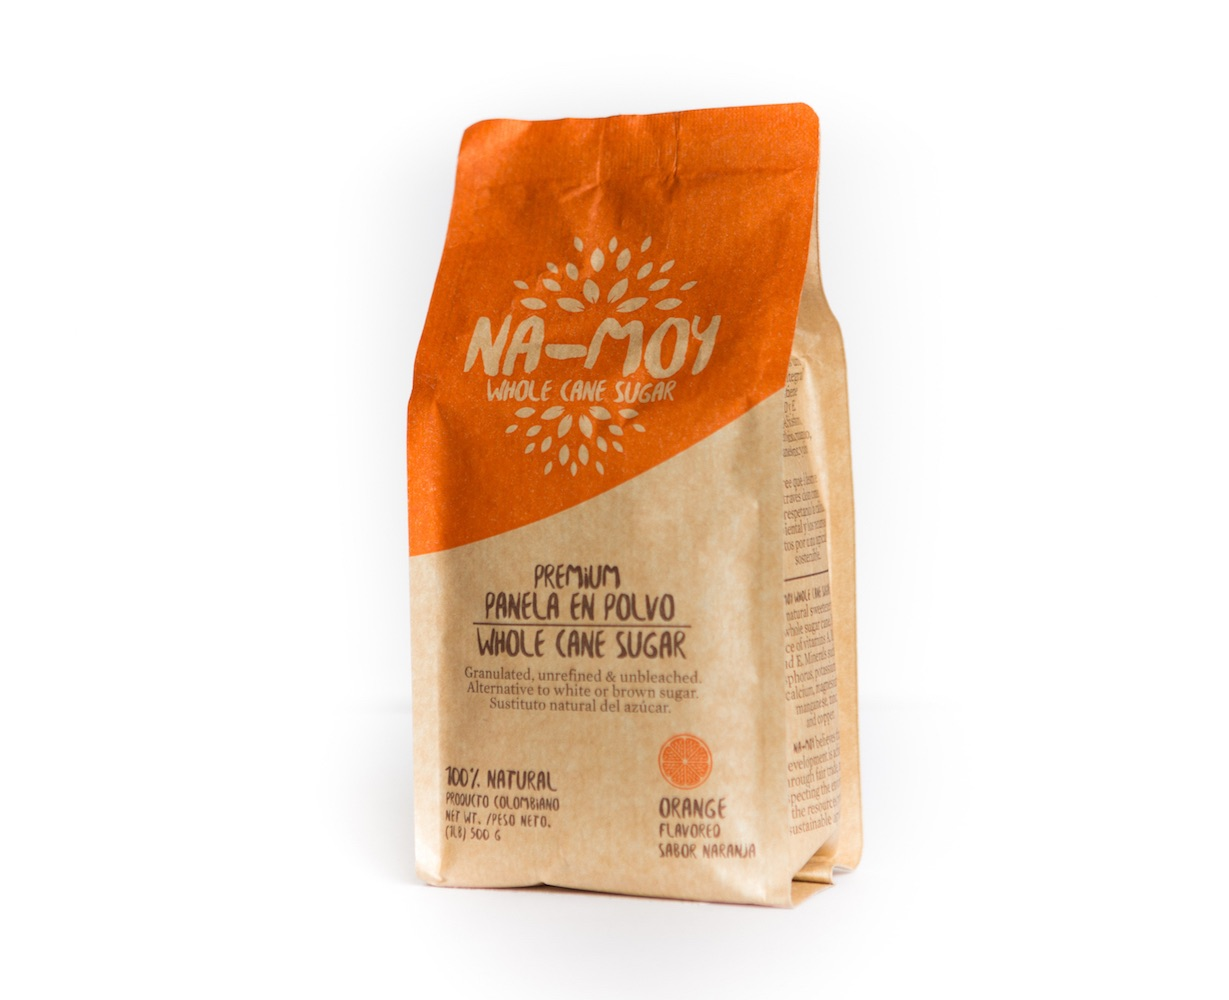
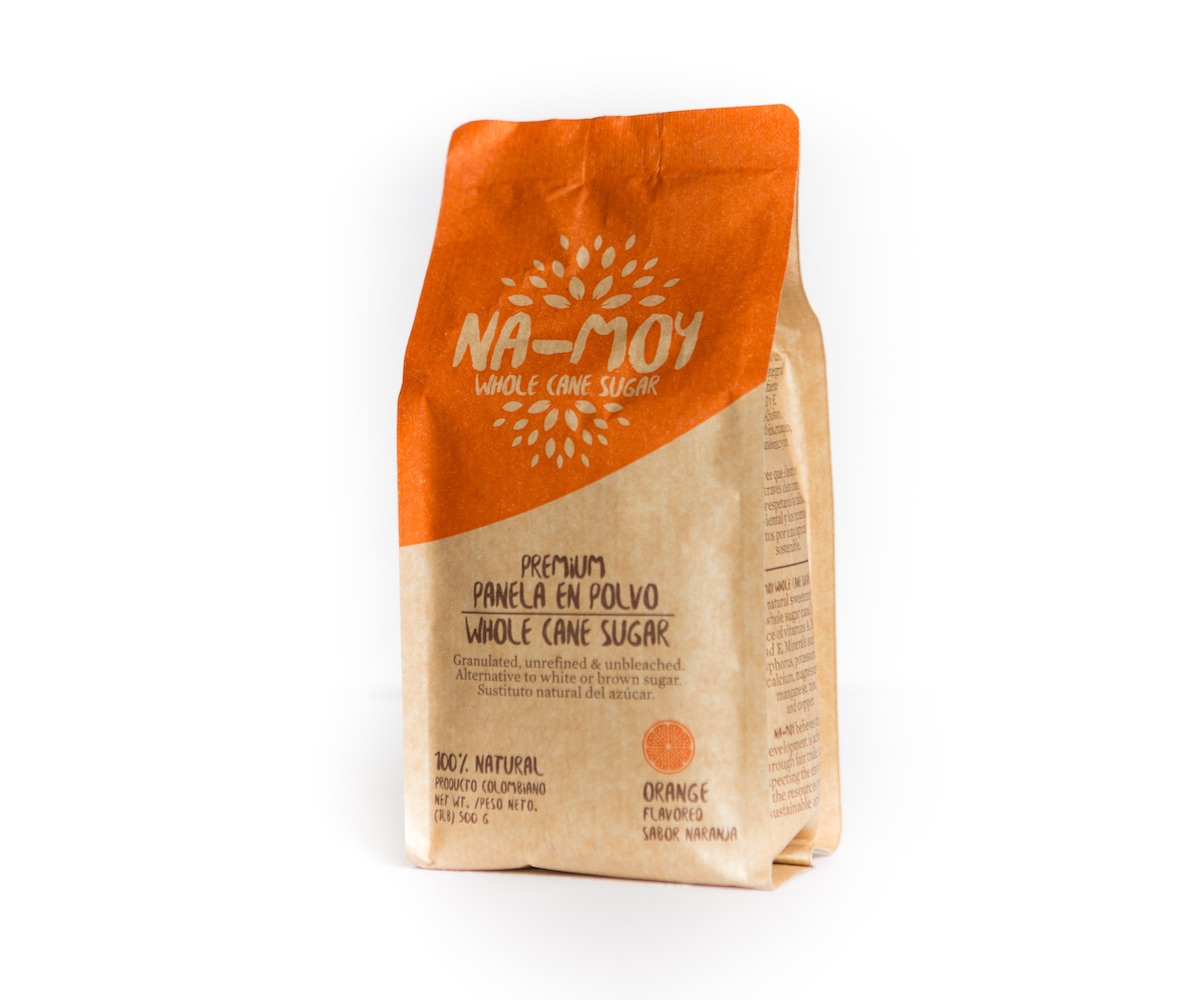
Comment out autoslider. Replace product images. Make contact box in partners#index smaller

diff --git a/app/assets/javascripts/application.js b/app/assets/javascripts/application.js
@@ -60,7 +60,7 @@ $(document).on('page:change', function() {
 
 
 // Slider
-$(document).ready(function(){
+$(document).on('page:change', function(){
   var currentIndex = 0,
     items = $('.panela-img div'),
     itemAmt = items.length;
@@ -71,16 +71,16 @@ $(document).ready(function(){
     item.css('display','inline-block');
   }
 
-  var autoSlide = setInterval(function() {
-    currentIndex += 1;
-    if (currentIndex > itemAmt - 1) {
-      currentIndex = 0;
-    }
-    cycleItems();
-  }, 3000);
+  // var autoSlide = setInterval(function() {
+  //   currentIndex += 1;
+  //   if (currentIndex > itemAmt - 1) {
+  //     currentIndex = 0;
+  //   }
+  //   cycleItems();
+  // }, 3000);
 
   $('#next').click(function() {
-    clearInterval(autoSlide);
+    // clearInterval(autoSlide);
     currentIndex += 1;
     if (currentIndex > itemAmt - 1) {
       currentIndex = 0;
@@ -89,7 +89,7 @@ $(document).ready(function(){
   });
 
   $('#prev').click(function() {
-    clearInterval(autoSlide);
+    // clearInterval(autoSlide);
     currentIndex -= 1;
     if (currentIndex < 0) {
       currentIndex = itemAmt - 1;

diff --git a/app/assets/stylesheets/bootstraptheme.scss b/app/assets/stylesheets/bootstraptheme.scss
@@ -165,12 +165,14 @@ nav.navbar.navbar-fixed-top {
   height: auto;
 }
 #next {
+  cursor: pointer;
   margin-top: 200px;
   position: absolute;
   right: 72px;
   font-size: 1.8em;
 }
 #prev {
+  cursor: pointer;
   position: absolute;
   left: 72px;
   font-size: 1.8em;
